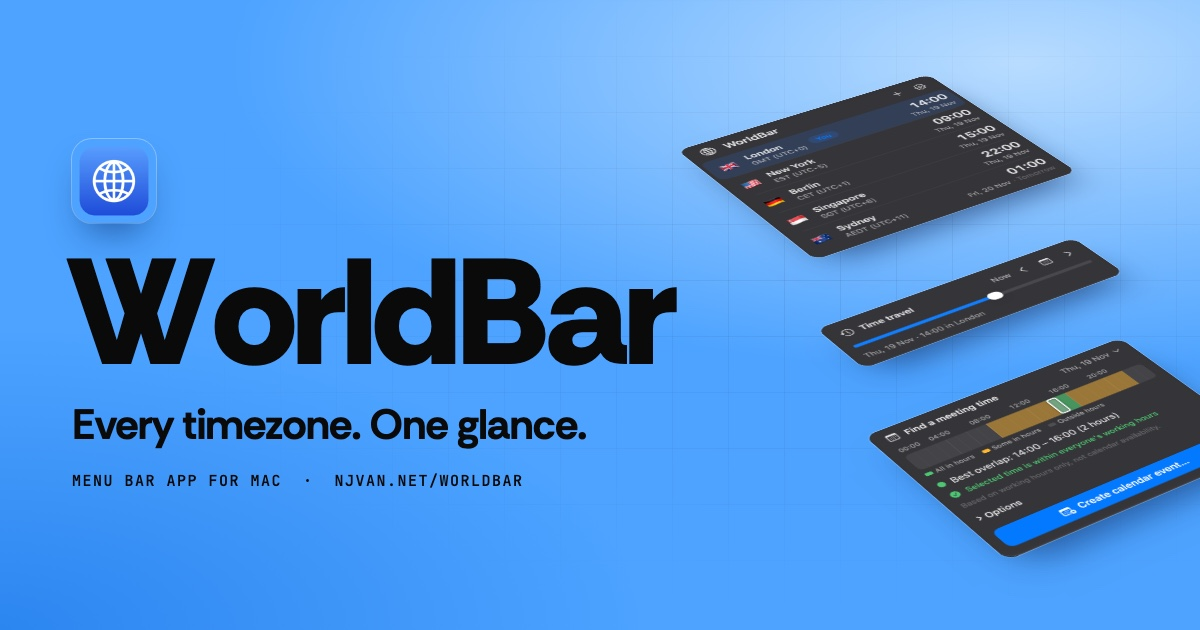
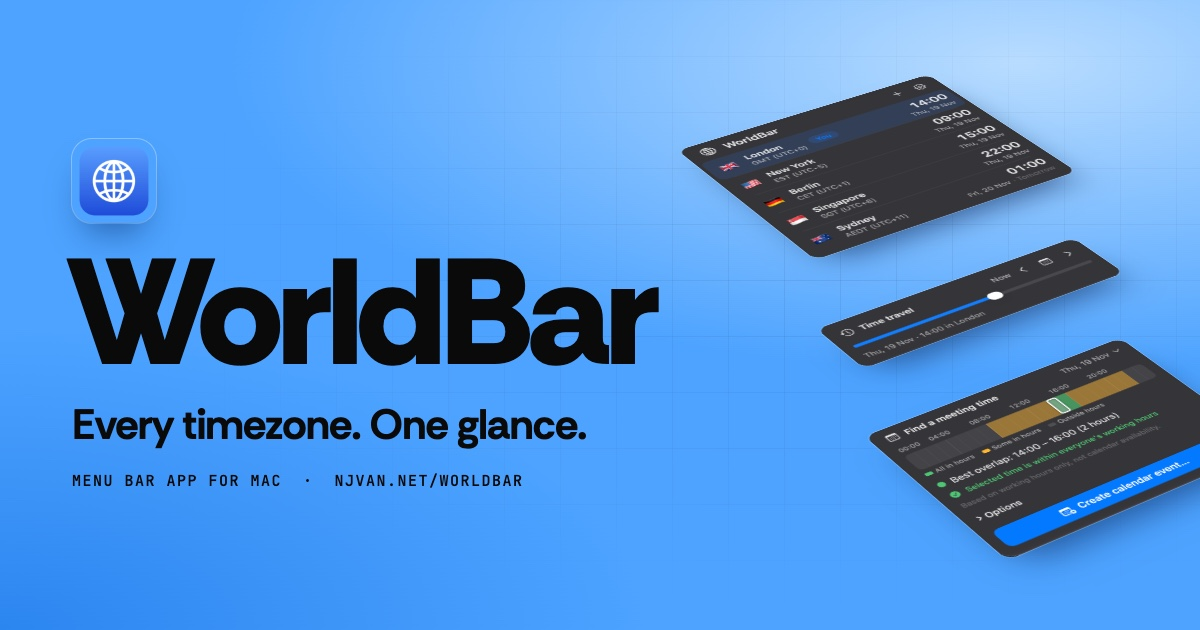
Fix the WorldBar hero, story highlight and demo intro
- Restore the font's kerning in the split title (measured per pair).
- Rebuild the hero stack as flat 2D matrices so Chrome and Safari match.
- Replace the story's blue outline with a spotlight driven by the capture's pixel rows.
- Slide the demo slider smoothly to the real time instead of jumping.
- Re-render the share image and update Motion.md.

Changed region(s): [[0.1542, 0.3921, 0.5858, 0.6032]]

diff --git a/src/scripts/worldbar-page.ts b/src/scripts/worldbar-page.ts
@@ -115,26 +115,57 @@ function setupPause() {
 function setupHero() {
   const hero = $<HTMLElement>('[data-wb-hero]');
   const iso = $<HTMLElement>('[data-wb-iso]');
-  const world = $<HTMLElement>('[data-wb-world]');
   const floor = $<HTMLElement>('[data-wb-floor]');
   const slabs = $$<HTMLElement>('[data-wb-slab]');
-  if (!hero || !iso || !world || slabs.length === 0) return;
+  if (!hero || !iso || slabs.length === 0) return;
 
+  // The stack is flat 2D: each plate gets one matrix (rotate, squash, lift) written every frame.
+  // True 3D (preserve-3d) renders differently in Chrome and Safari once plates are clipped, so avoid it.
   const BASE = { rx: 58, rz: -34 };
+  const st = { rx: BASE.rx, rz: BASE.rz, y: 0 };
   // Gap between plates as a fraction of the stack's width; hover/tap assembles it, scroll explodes it.
   const gap: { base: number; scroll: number } = { base: WORLDBAR.stack.rest, scroll: 0 };
-  const width = () => iso.clientWidth;
+  const RAD = Math.PI / 180;
+  let last = '';
   const render = () => {
-    const g = (gap.base + gap.scroll) * width();
-    slabs.forEach((s, i) => gsap.set(s, { z: i * g }));
-    gsap.set(floor, { '--floor': 1 + (gap.base + gap.scroll) * 2.4 });
+    const W = iso.clientWidth;
+    const g = gap.base + gap.scroll;
+    const key = `${W}|${st.rx}|${st.rz}|${st.y}|${g}`;
+    if (key === last) return;
+    last = key;
+    const H = W * 1.02;
+    const cx = W / 2;
+    const cy = H / 2;
+    const th = st.rz * RAD;
+    const ph = st.rx * RAD;
+    const a = Math.cos(th);
+    const b = Math.sin(th) * Math.cos(ph);
+    const c = -Math.sin(th);
+    const d = Math.cos(th) * Math.cos(ph);
+    const lift = Math.sin(ph);
+    // Plan geometry, matching the CSS: plate width, and where each band of the capture starts.
+    const w = W * 0.54;
+    const top0 = (H - (w * 1404) / 756) / 2;
+    const tops = [top0 + (w * 842) / 756, top0 + (w * 640) / 756, top0];
+    const dx = -w / 2;
+    slabs.forEach((s, i) => {
+      const dy = tops[i] - cy;
+      const e = cx + a * dx + c * dy;
+      const f = cy + b * dx + d * dy + st.y - H * 0.06 - i * g * W * lift;
+      s.style.transform = `matrix(${a},${b},${c},${d},${e},${f})`;
+    });
+    // Square the inner corners as the plates close up, so the whole popover is one shape.
+    const open = Math.min(1, g / 0.02);
+    iso.style.setProperty('--open', String(open));
+    iso.style.setProperty('--lit', String(open));
+    gsap.set(floor, { '--floor': 1 + g * 2.4 });
   };
 
-  gsap.set(world, { rotationX: BASE.rx, rotationZ: BASE.rz, y: 0, transformOrigin: '50% 50%' });
   render();
   window.addEventListener('resize', render);
 
   if (reduced) return;
+  gsap.ticker.add(render);
 
   // Intro: the plates fall in from high above, bottom plate first.
   const from = WORLDBAR.stack.introFrom;
@@ -143,16 +174,12 @@ function setupHero() {
   render();
   const intro = gsap.timeline({ delay: WORLDBAR.stack.delay });
   intro.to(slabs, { autoAlpha: 1, duration: 0.5, stagger: WORLDBAR.stack.introStagger }, 0);
-  intro.to(
-    gap,
-    { base: WORLDBAR.stack.rest, duration: WORLDBAR.stack.introDuration, ease: 'animaxxing', onUpdate: render },
-    0.1,
-  );
-  intro.from(world, { rotationZ: BASE.rz - 50, duration: WORLDBAR.stack.introDuration + 0.4, ease: 'animaxxing' }, 0);
+  intro.to(gap, { base: WORLDBAR.stack.rest, duration: WORLDBAR.stack.introDuration, ease: 'animaxxing' }, 0.1);
+  intro.from(st, { rz: BASE.rz - 50, duration: WORLDBAR.stack.introDuration + 0.4, ease: 'animaxxing' }, 0);
   intro.from('[data-wb-chip]', { autoAlpha: 0, scale: 0.6, duration: 0.6, ease: 'back.out(2)', stagger: 0.12 }, 1.2);
 
   // Idle: the stack bobs, the chips drift. Both register for the pause control.
-  const bob = gsap.to(world, {
+  const bob = gsap.to(st, {
     y: WORLDBAR.float.amplitude,
     duration: WORLDBAR.float.duration,
     ease: 'sine.inOut',
@@ -177,8 +204,8 @@ function setupHero() {
 
   // Pointer parallax (fine pointers only).
   if (window.matchMedia('(pointer: fine)').matches) {
-    const rz = gsap.quickTo(world, 'rotationZ', { duration: WORLDBAR.parallax.follow, ease: 'power3.out' });
-    const rx = gsap.quickTo(world, 'rotationX', { duration: WORLDBAR.parallax.follow, ease: 'power3.out' });
+    const rz = gsap.quickTo(st, 'rz', { duration: WORLDBAR.parallax.follow, ease: 'power3.out' });
+    const rx = gsap.quickTo(st, 'rx', { duration: WORLDBAR.parallax.follow, ease: 'power3.out' });
     hero.addEventListener('pointermove', (e) => {
       const r = hero.getBoundingClientRect();
       const nx = (e.clientX - r.left) / r.width - 0.5;
@@ -200,7 +227,6 @@ function setupHero() {
       base: on ? WORLDBAR.stack.assemble : WORLDBAR.stack.rest,
       duration: WORLDBAR.assembleDuration,
       ease: 'animaxxing',
-      onUpdate: render,
       overwrite: 'auto',
     });
   };
@@ -219,9 +245,38 @@ function setupHero() {
     scrub: 0.6,
     onUpdate: (self) => {
       gap.scroll = self.progress * WORLDBAR.stack.scrollExplode;
-      render();
     },
   });
+}
+
+/**
+ * Splitting a word into letters loses the font's kerning between pairs. Measure each pair with and
+ * without kerning and put the difference back as a small margin on the second letter.
+ */
+function restoreKerning(title: HTMLElement, chars: Element[]) {
+  const apply = () => {
+    // Measure in the DOM (canvas fontKerning is not in every Safari): a hidden span in the same font.
+    const cs = getComputedStyle(title);
+    const probe = document.createElement('span');
+    probe.setAttribute('aria-hidden', 'true');
+    probe.style.cssText = `position:absolute;left:-9999px;top:0;white-space:pre;visibility:hidden;font-family:${cs.fontFamily};font-weight:${cs.fontWeight};font-size:200px;letter-spacing:0`;
+    document.body.appendChild(probe);
+    const size = 200;
+    const width = (t: string, kern: 'normal' | 'none') => {
+      probe.style.fontKerning = kern;
+      probe.textContent = t;
+      return probe.getBoundingClientRect().width;
+    };
+    chars.forEach((el, i) => {
+      if (i === 0) return;
+      const pair = `${chars[i - 1].textContent}${el.textContent}`;
+      const k = width(pair, 'normal') - width(pair, 'none');
+      (el as HTMLElement).style.marginLeft = `${(k / size).toFixed(4)}em`;
+    });
+    probe.remove();
+  };
+  apply();
+  void document.fonts.ready.then(apply);
 }
 
 function setupHeroCopy() {
@@ -241,6 +296,7 @@ function setupHeroCopy() {
 
   if (!title) return;
   const split = SplitText.create(title, { type: 'chars', charsClass: 'wb-char', aria: 'auto' });
+  restoreKerning(title, split.chars);
   gsap.from(split.chars, {
     yPercent: WORLDBAR.letters.from,
     rotationX: -90,
@@ -362,7 +418,9 @@ function setupDemo() {
     .reduce<Record<string, number>>((o, p) => (p.type === 'literal' ? o : { ...o, [p.type]: Number(p.value) }), {});
   const utcMidnight = Date.UTC(parts.year, parts.month - 1, parts.day);
   const baseMs = utcMidnight - offsetMin(LONDON, utcMidnight + 12 * 3600000) * 60000;
-  const minutesNow = clamp(Math.round((now0 - baseMs) / 60000 / 15) * 15, 0, 1425);
+  // The real time of day in minutes (fractional), so live mode and the intro land exactly on now.
+  const exactNow = () => clamp((Date.now() - baseMs) / 60000, 0, 1425);
+  const minutesNow = exactNow();
 
   // Working-hours intervals for each city on this day, as London-midnight minutes.
   for (const r of rows) {
@@ -429,7 +487,7 @@ function setupDemo() {
 
   let live = true;
   function update(v: number) {
-    const ms = baseMs + v * 60000;
+    const ms = baseMs + Math.floor(v) * 60000;
     rangeEl.value = String(v);
     rangeEl.style.setProperty('--p', `${(v / 1425) * 100}%`);
     const head = pct(v);
@@ -443,6 +501,11 @@ function setupDemo() {
     if (nowBtn) nowBtn.hidden = live;
   }
 
+  // The slider is free while it follows the clock; as soon as the visitor grabs it, it snaps to 15 minutes.
+  rangeEl.step = 'any';
+  const snap = () => (rangeEl.step = '15');
+  rangeEl.addEventListener('pointerdown', snap);
+  rangeEl.addEventListener('keydown', snap);
   rangeEl.addEventListener('input', () => {
     live = false;
     sweep?.kill();
@@ -452,13 +515,17 @@ function setupDemo() {
   nowBtn?.addEventListener('click', () => {
     live = true;
     sweep?.kill();
-    const target = clamp(Math.round((Date.now() - baseMs) / 60000 / 15) * 15, 0, 1425);
+    const target = exactNow();
     const state = { v: Number(rangeEl.value) };
-    gsap.to(state, { v: target, duration: reduced ? 0 : 0.6, ease: 'animaxxing', onUpdate: () => update(Math.round(state.v)) });
+    gsap.to(state, { v: target, duration: reduced ? 0 : 0.6,
+      ease: 'animaxxing',
+      onStart: () => (rangeEl.step = 'any'),
+      onUpdate: () => update(state.v),
+    });
   });
   // Live mode follows the real clock.
   window.setInterval(() => {
-    if (live) update(clamp(Math.round((Date.now() - baseMs) / 60000 / 15) * 15, 0, 1425));
+    if (live) update(exactNow());
   }, 15000);
 
   analyse();
@@ -473,16 +540,19 @@ function setupDemo() {
       once: true,
       onEnter: () => {
         if (!live) return;
+        // One continuous slide from early morning to the real time now, at a steady pace: no 15 minute
+        // steps and no jump at the end, because it ends exactly where live mode starts.
         const s = { v: WORLDBAR.sweep.from };
+        const target = exactNow();
         live = false;
         sweep = gsap.to(s, {
-          v: WORLDBAR.sweep.to,
-          duration: WORLDBAR.sweep.duration,
+          v: target,
+          duration: clamp(Math.abs(target - s.v) / WORLDBAR.sweep.speed, 1.2, 6),
           ease: 'sine.inOut',
-          onUpdate: () => update(Math.round(s.v / 15) * 15),
+          onUpdate: () => update(s.v),
           onComplete: () => {
             live = true;
-            update(minutesNow);
+            update(exactNow());
           },
         });
       },
@@ -504,13 +574,18 @@ function setupStory() {
   const bar = $<HTMLElement>('[data-wb-story-bar]', story);
   const N = WORLDBAR.storySteps;
 
-  // Where each view sits: how far the capture slides up (share of its height), and the outline.
-  const focus: Record<string, { sy: number; ring?: [number, number] }> = {
+  // Where each view sits: how far the capture slides up (share of its height), and the band of the
+  // capture's own pixel rows to light (y0, y1 in the 756 x 1404 image).
+  const IMG_H = 1404;
+  const FRAME_SHARE = 1404 / 1000; // the image is 1.404 frames tall (frame aspect is 756 / 1000)
+  const focus: Record<string, { sy: number; band?: [number, number] }> = {
     all: { sy: 0 },
     // The add-city capture is shorter than the frame: centre it.
     picker: { sy: 7.47 },
-    top: { sy: 0, ring: [64, 20.2] },
-    bottom: { sy: -28.77, ring: [47.6, 38] },
+    // Time travel: its title row through the date line (rows 646 to 826).
+    top: { sy: 0, band: [646, 826] },
+    // Find a meeting time: its header through the Options row (rows 858 to 1276).
+    bottom: { sy: -28.77, band: [858, 1276] },
     nooverlap: { sy: -41.66 },
   };
 
@@ -523,10 +598,12 @@ function setupStory() {
     const key = shots[i]?.dataset.focus ?? 'all';
     const f = focus[key] ?? focus.all;
     shots[i]?.style.setProperty('--sy', `${f.sy}%`);
-    frame.style.setProperty('--ring-o', f.ring ? '1' : '0');
-    if (f.ring) {
-      frame.style.setProperty('--ring-top', `${f.ring[0]}%`);
-      frame.style.setProperty('--ring-h', `${f.ring[1]}%`);
+    frame.style.setProperty('--spot-o', f.band ? '1' : '0');
+    if (f.band) {
+      // Image row to a share of the frame: (row / height + slide) * how many frames tall the image is.
+      const pct = (y: number) => `${((y / IMG_H + f.sy / 100) * FRAME_SHARE * 100).toFixed(2)}%`;
+      frame.style.setProperty('--st', pct(f.band[0]));
+      frame.style.setProperty('--sb', pct(f.band[1]));
     }
   };
 

diff --git a/src/lib/motion.ts b/src/lib/motion.ts
@@ -260,8 +260,8 @@ export const WORLDBAR = {
   parallax: { turn: 7, tilt: 5, follow: 0.7 },
   /** Floating clock pills drift: pixels, then a min and max seconds per pass. */
   chips: { drift: 11, duration: [2.6, 4.2] },
-  /** The demo plays one sweep through the day the first time it is seen: minutes from London midnight. */
-  sweep: { from: 330, to: 930, duration: 4.4 },
+  /** The demo slides once from early morning to the real time now, the first time it is seen: start in minutes from London midnight, pace in minutes per second. */
+  sweep: { from: 330, speed: 240 },
   /** Scroll reveals: section copy and cards rise in. */
   reveal: { y: 34, duration: 0.7, stagger: 0.08, start: 'top 85%' },
   /** The pinned story: each step owns this share of the scroll. */

diff --git a/design/Motion.md b/design/Motion.md
@@ -75,10 +75,10 @@ An app landing page, so it may use gradients, glows and shadows. Values are in `
 | Surface | Moment |
 |---|---|
 | Hero name | Letters drop in (rotate up from below, `animaxxing`), then a slow wave runs through them every few seconds. |
-| Isometric stack | Three plates cut from one real capture of the app fall in from high above, bottom plate first, and settle at the resting gap. They bob gently, follow the pointer (fine pointers only), close into the whole popover on hover or tap, and pull apart as the hero scrolls away. |
+| Isometric stack | Three plates cut from one real capture of the app fall in from high above, bottom plate first, and settle at the resting gap. The stack is flat 2D: one matrix per plate (rotate, squash, lift) written each frame, no `preserve-3d`, so Chrome and Safari match; the gap closes to zero on assemble with square inner corners and no labels. They bob gently, follow the pointer (fine pointers only), close into the whole popover on hover or tap, and pull apart as the hero scrolls away. |
 | Clock pills | Real local times (Intl) drift around the stack; the little menu bars further down tick on the minute. |
-| Live demo | One sweep through the day plays the first time it is seen, then it settles on now. Dragging the slider or ticking a city recomputes the overlap. |
-| Story | Pinned on wide screens: steps on the left, the real screenshots on the right in a slowly turning frame, with an outline that glides to the part being described. Narrow screens and no-script get the same steps stacked. |
+| Live demo | The first time it is seen, the slider slides in one continuous move from early morning to the real time now, at a steady pace with no 15 minute steps and no jump at the end; it then follows the clock. Once dragged, it snaps to 15 minutes. Dragging the slider or ticking a city recomputes the overlap. |
+| Story | Pinned on wide screens: steps on the left, the real screenshots on the right in a slowly turning frame, with a spotlight: the rest of the capture dims and a soft-edged band glides to the part being described (the band comes from the capture's own pixel rows). Narrow screens and no-script get the same steps stacked. |
 | Details | Cards rise in as a batch; the light/dark wipe scrubs with the scroll; "194" counts up. |
 
 Everything that loops registers with the pause control (shared `motion-paused` key). Reduced motion shows the stack and everything else settled; the demo still works. No script: the page reads complete (the demo shows the 19 Nov example).
